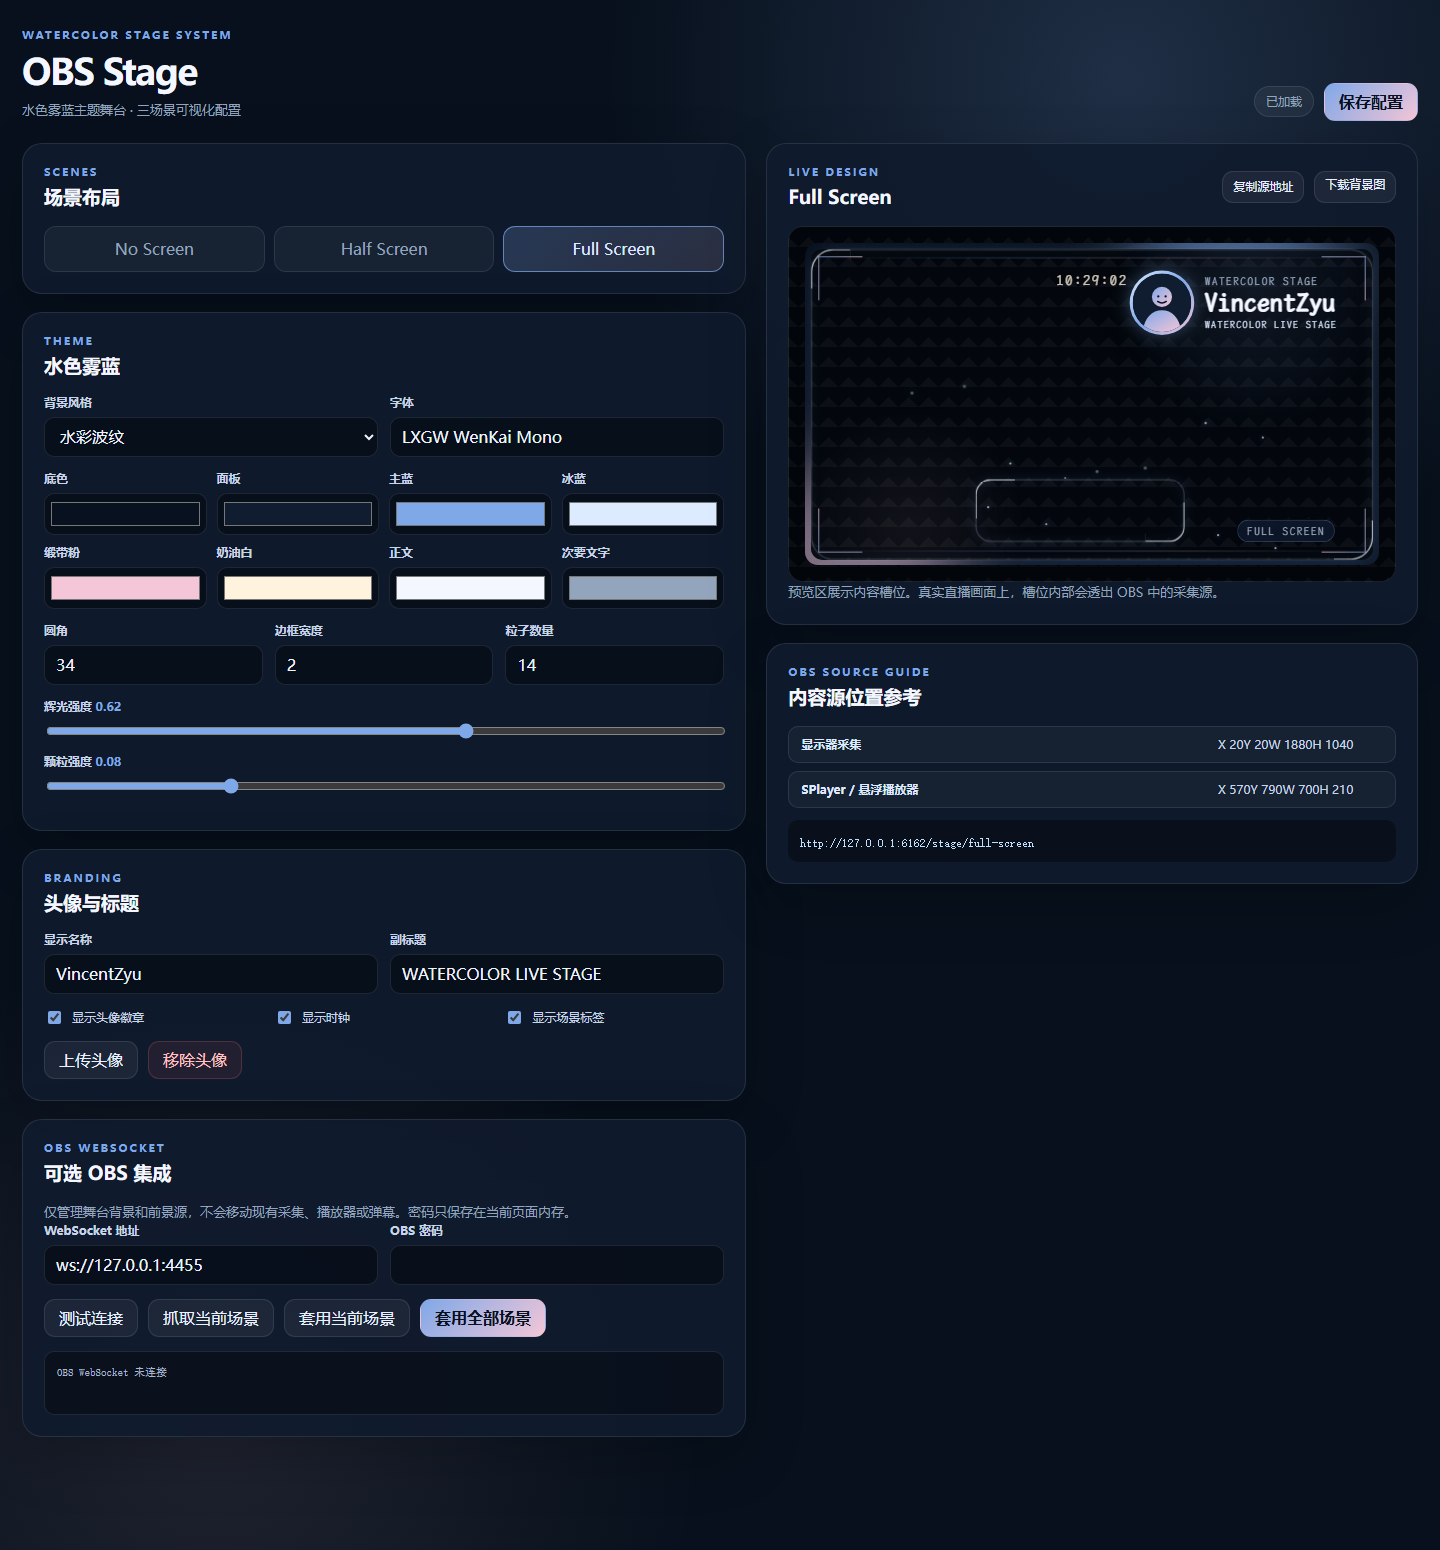
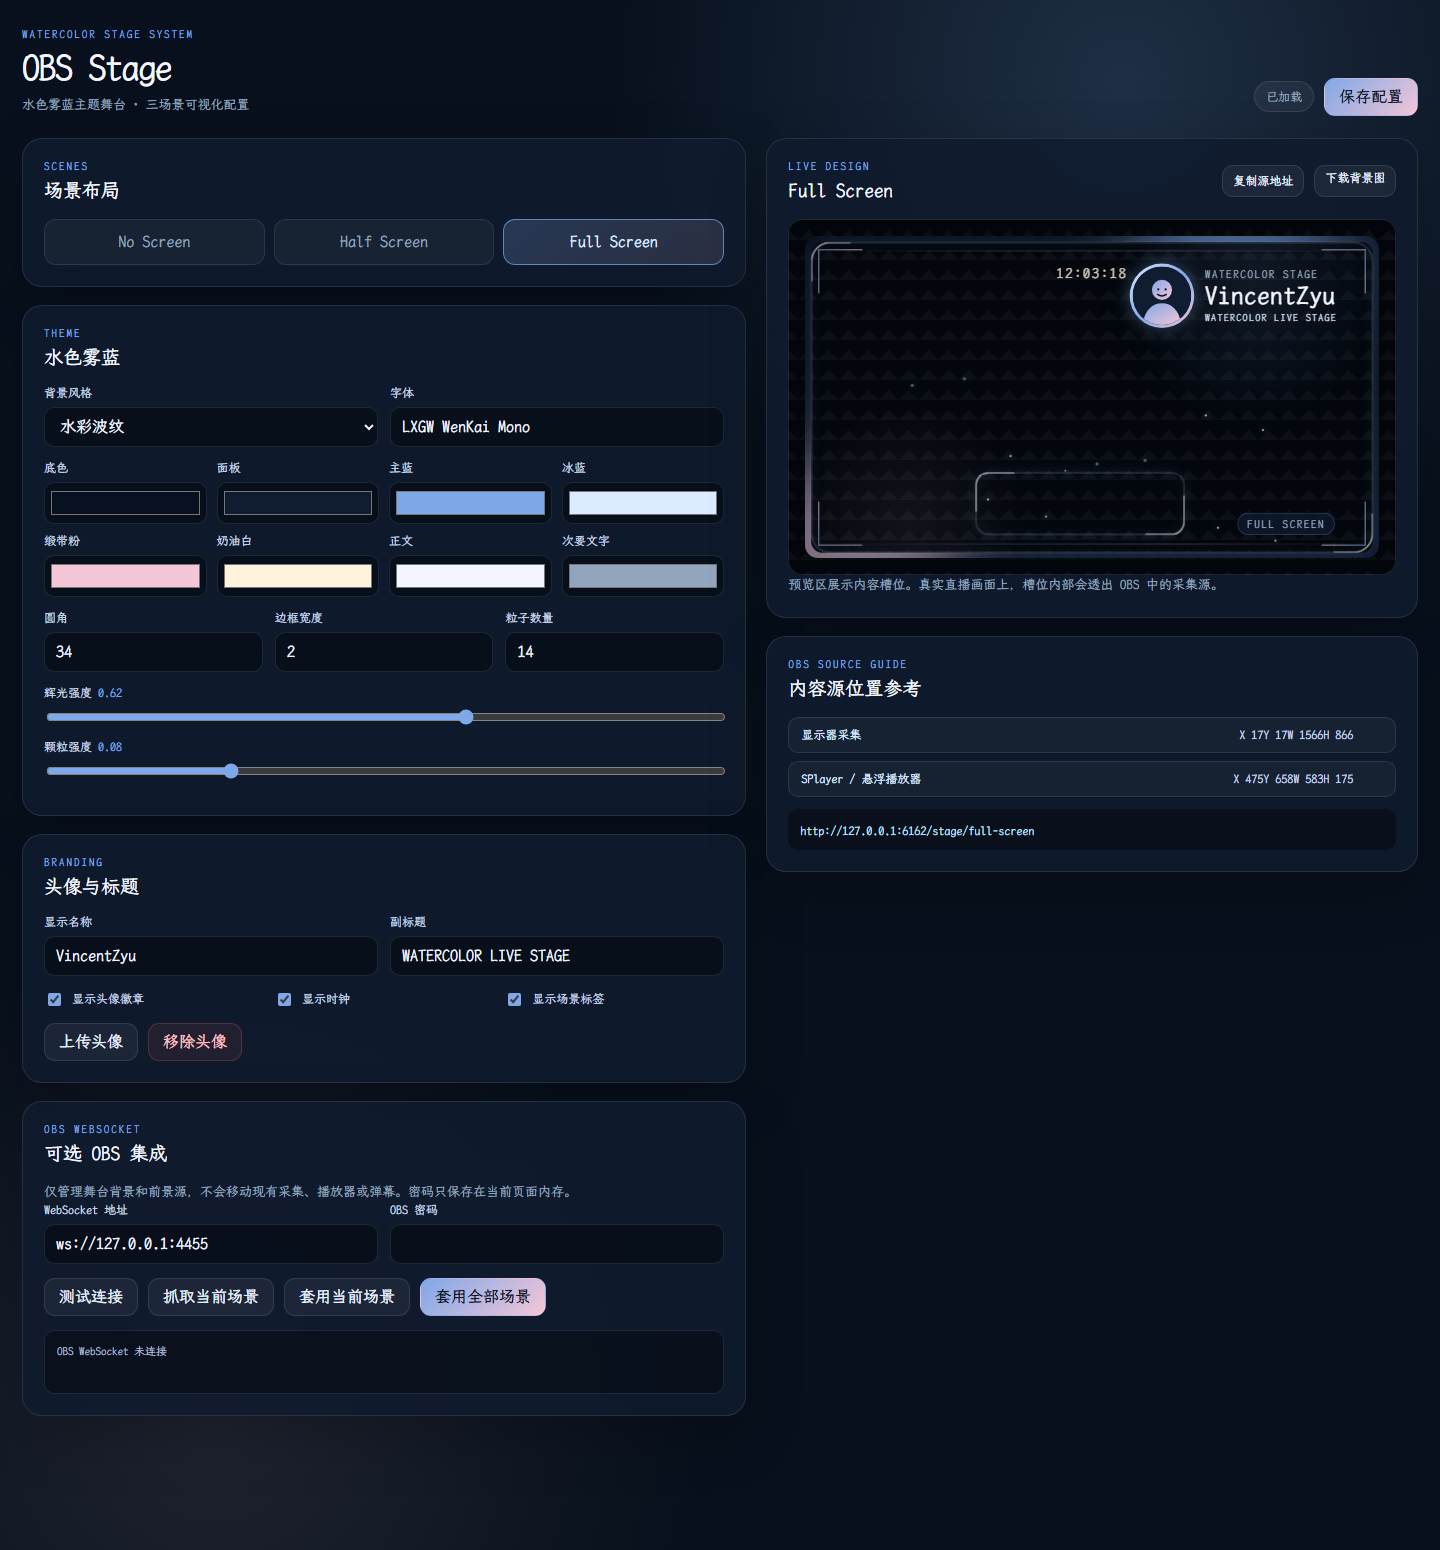
feat: use native 1600x900 stage coordinates

diff --git a/src/obs_stage/static/stage.js b/src/obs_stage/static/stage.js
@@ -63,10 +63,10 @@ function renderSlots(layout) {
 
     const placeholder = document.createElement("div");
     placeholder.className = "preview-slot";
-    placeholder.style.left = `${(rect.x / 1920) * 100}%`;
-    placeholder.style.top = `${(rect.y / 1080) * 100}%`;
-    placeholder.style.width = `${(rect.width / 1920) * 100}%`;
-    placeholder.style.height = `${(rect.height / 1080) * 100}%`;
+    placeholder.style.left = `${(rect.x / 1600) * 100}%`;
+    placeholder.style.top = `${(rect.y / 900) * 100}%`;
+    placeholder.style.width = `${(rect.width / 1600) * 100}%`;
+    placeholder.style.height = `${(rect.height / 900) * 100}%`;
     placeholder.style.borderRadius = `${rect.radius}px`;
     const label = document.createElement("span");
     label.textContent = slot.placeholder || slot.label;
@@ -75,10 +75,10 @@ function renderSlots(layout) {
 
     const border = document.createElement("div");
     border.className = "slot-border";
-    border.style.left = `${(rect.x / 1920) * 100}%`;
-    border.style.top = `${(rect.y / 1080) * 100}%`;
-    border.style.width = `${(rect.width / 1920) * 100}%`;
-    border.style.height = `${(rect.height / 1080) * 100}%`;
+    border.style.left = `${(rect.x / 1600) * 100}%`;
+    border.style.top = `${(rect.y / 900) * 100}%`;
+    border.style.width = `${(rect.width / 1600) * 100}%`;
+    border.style.height = `${(rect.height / 900) * 100}%`;
     border.style.borderRadius = `${rect.radius}px`;
     slotBorders.append(border);
   }

diff --git a/src/obs_stage/static/stage.html b/src/obs_stage/static/stage.html
@@ -9,13 +9,13 @@
   <body>
     <main id="stage" class="stage" data-scene="no-screen">
       <div id="previewContent" class="preview-content" hidden></div>
-      <svg id="stageMask" class="stage-mask" viewBox="0 0 1920 1080" preserveAspectRatio="none" aria-hidden="true">
+      <svg id="stageMask" class="stage-mask" viewBox="0 0 1600 900" preserveAspectRatio="none" aria-hidden="true">
         <defs>
-          <mask id="slotMask" maskUnits="userSpaceOnUse" x="0" y="0" width="1920" height="1080">
-            <rect x="0" y="0" width="1920" height="1080" fill="white" />
+          <mask id="slotMask" maskUnits="userSpaceOnUse" x="0" y="0" width="1600" height="900">
+            <rect x="0" y="0" width="1600" height="900" fill="white" />
           </mask>
         </defs>
-        <image id="stageBackground" x="0" y="0" width="1920" height="1080" preserveAspectRatio="xMidYMid slice" mask="url(#slotMask)" />
+        <image id="stageBackground" x="0" y="0" width="1600" height="900" preserveAspectRatio="xMidYMid slice" mask="url(#slotMask)" />
       </svg>
       <div id="glowLayer" class="glow-layer"></div>
       <div id="slotBorders" class="slot-borders"></div>

diff --git a/src/obs_stage/layouts.py b/src/obs_stage/layouts.py
@@ -12,7 +12,7 @@ def default_layouts() -> dict[SceneId, SceneLayout]:
                 StageSlot(
                     name="media",
                     label="SPlayer / 主内容",
-                    rect=Rect(x=220, y=320, width=1480, height=443, radius=40),
+                    rect=Rect(x=183, y=267, width=1233, height=369, radius=33),
                     placeholder="SPlayer 内容槽",
                 )
             ],
@@ -24,13 +24,13 @@ def default_layouts() -> dict[SceneId, SceneLayout]:
                 StageSlot(
                     name="capture",
                     label="显示器采集",
-                    rect=Rect(x=480, y=96, width=960, height=540, radius=38),
+                    rect=Rect(x=400, y=80, width=800, height=450, radius=32),
                     placeholder="显示器采集",
                 ),
                 StageSlot(
                     name="media",
                     label="SPlayer / 播放器",
-                    rect=Rect(x=530, y=660, width=820, height=245, radius=30),
+                    rect=Rect(x=442, y=550, width=683, height=204, radius=25),
                     placeholder="SPlayer 内容槽",
                 ),
             ],
@@ -42,13 +42,13 @@ def default_layouts() -> dict[SceneId, SceneLayout]:
                 StageSlot(
                     name="capture",
                     label="显示器采集",
-                    rect=Rect(x=20, y=20, width=1880, height=1040, radius=38),
+                    rect=Rect(x=17, y=17, width=1566, height=866, radius=32),
                     placeholder="全屏采集",
                 ),
                 StageSlot(
                     name="media",
                     label="SPlayer / 悬浮播放器",
-                    rect=Rect(x=570, y=790, width=700, height=210, radius=26),
+                    rect=Rect(x=475, y=658, width=583, height=175, radius=22),
                     placeholder="SPlayer 悬浮卡",
                 ),
             ],

diff --git a/src/obs_stage/obs_ws.py b/src/obs_stage/obs_ws.py
@@ -148,8 +148,8 @@ class ObsController:
                 "browser_source",
                 {
                     "url": stage_url,
-                    "width": 1920,
-                    "height": 1080,
+                    "width": 1600,
+                    "height": 900,
                     "fps_custom": True,
                     "fps": 30,
                     "shutdown": True,

diff --git a/tests/test_layouts.py b/tests/test_layouts.py
@@ -9,8 +9,8 @@ def test_scene_slots_fit_canvas() -> None:
             rect = slot.rect
             assert rect.x >= 0
             assert rect.y >= 0
-            assert rect.x + rect.width <= 1920
-            assert rect.y + rect.height <= 1080
+            assert rect.x + rect.width <= 1600
+            assert rect.y + rect.height <= 900
             assert rect.radius > 0
 
 

diff --git a/tests/test_renderer.py b/tests/test_renderer.py
@@ -15,7 +15,7 @@ def test_background_is_rendered_and_cached(tmp_path: Path) -> None:
     assert first == second
     assert first.exists()
     with Image.open(first) as image:
-        assert image.size == (1920, 1080)
+        assert image.size == (1600, 900)
         assert image.mode == "RGB"
 
 

diff --git a/src/obs_stage/renderer.py b/src/obs_stage/renderer.py
@@ -9,8 +9,8 @@ from PIL import Image, ImageDraw, ImageFilter
 
 from .models import AppConfig, BackgroundStyle, SceneId
 
-WIDTH = 1920
-HEIGHT = 1080
+WIDTH = 1600
+HEIGHT = 900
 
 
 def _color(value: str, alpha: int = 255) -> tuple[int, int, int, int]:

diff --git a/docs/layout-spec.md b/docs/layout-spec.md
@@ -1,25 +1,25 @@
 # 场景布局规格
 
-画布固定为 `1920×1080`。弹幕统一占据左侧高窄区域。
+画布固定为 `1600×900` 的 16:9 设计坐标。弹幕统一占据左侧高窄区域。
 
 ## No Screen
 
 | 槽位 | X | Y | 宽 | 高 |
 | --- | ---: | ---: | ---: | ---: |
-| SPlayer / 主内容 | 220 | 320 | 1480 | 443 |
+| SPlayer / 主内容 | 183 | 267 | 1233 | 369 |
 
 ## Half Screen
 
 | 槽位 | X | Y | 宽 | 高 |
 | --- | ---: | ---: | ---: | ---: |
-| 显示器采集 | 480 | 96 | 960 | 540 |
-| SPlayer / 播放器 | 530 | 660 | 820 | 245 |
+| 显示器采集 | 400 | 80 | 800 | 450 |
+| SPlayer / 播放器 | 442 | 550 | 683 | 204 |
 
 ## Full Screen
 
 | 槽位 | X | Y | 宽 | 高 |
 | --- | ---: | ---: | ---: | ---: |
-| 显示器采集 | 20 | 20 | 1880 | 1040 |
-| SPlayer / 悬浮播放器 | 570 | 790 | 700 | 210 |
+| 显示器采集 | 17 | 17 | 1566 | 866 |
+| SPlayer / 悬浮播放器 | 475 | 658 | 583 | 175 |
 
 槽位坐标是可编辑预设的基础值。首版不提供拖拽编辑，但 WebUI 会直接展示当前配置，便于在 OBS 中精确对齐。

diff --git a/docs/obs-setup.md b/docs/obs-setup.md
@@ -14,7 +14,7 @@ uv run obs-stage
 2. 在 OBS 当前场景点击来源下方 `+`。
 3. 选择“图像”，命名为 `Stage BG [场景名]`。
 4. 选择刚下载的 PNG。
-5. 将位置和尺寸设为 `X=0 Y=0 W=1920 H=1080`，并置于最底层。
+5. 将位置和尺寸设为 `X=0 Y=0 W=1600 H=900`，并置于最底层。
 
 ## 3. 添加内容源
 
@@ -32,7 +32,7 @@ uv run obs-stage
 http://127.0.0.1:6162/stage/half-screen
 ```
 
-4. 宽 `1920`，高 `1080`。
+4. 宽 `1600`，高 `900`。
 5. 勾选“使用自定义帧率”，填 `30`。
 6. 放在内容源上方、弹幕源下方。
 

diff --git a/README.md b/README.md
@@ -69,7 +69,7 @@ http://127.0.0.1:6162/admin
 - `half-screen`：左侧固定弹幕，右侧主采集卡和横向播放器卡。
 - `full-screen`：全屏采集内容，左侧固定弹幕，右下悬浮播放器。
 
-坐标与尺寸见 [docs/layout-spec.md](docs/layout-spec.md)。
+三个舞台页原生使用 `1600×900` 的 16:9 设计坐标；OBS 浏览器源宽高请设置为 `1600×900`。坐标见 [docs/layout-spec.md](docs/layout-spec.md)。
 
 ## 🗂 数据位置
 
